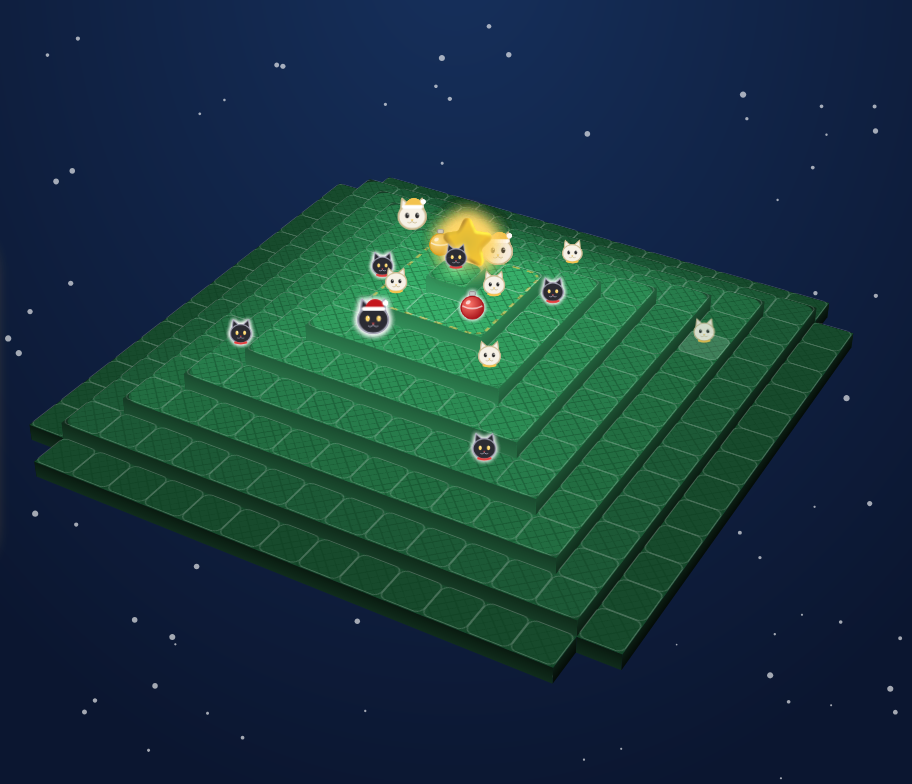
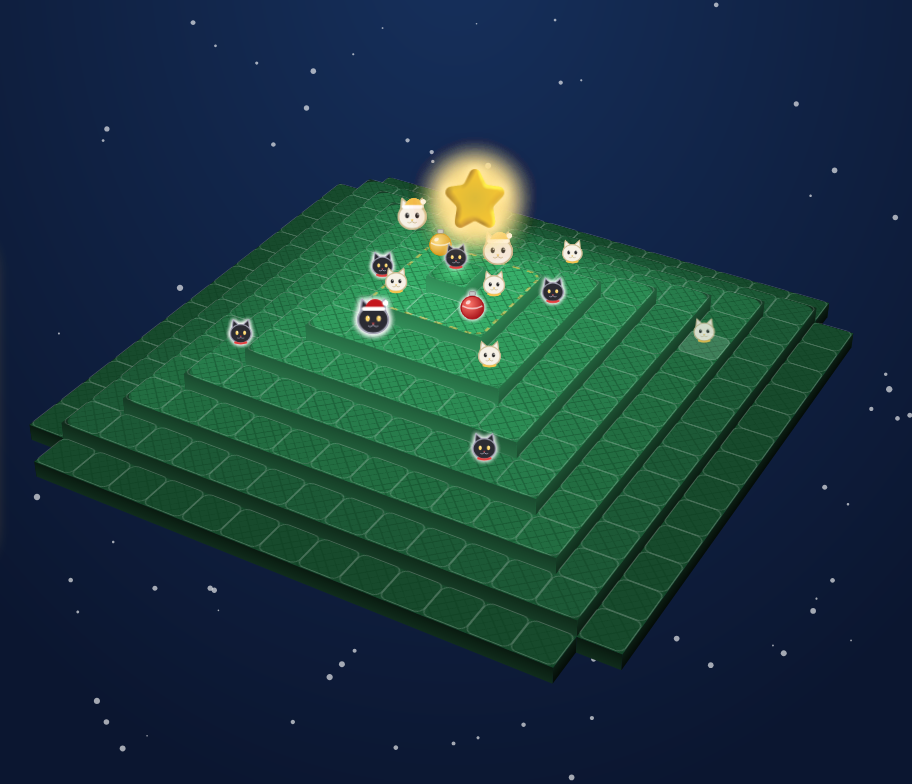
Star floats above the tree in 3D; Auto kittens scale with tree size; balance sim

Changed region(s): [[0.4605, 0.1837, 0.5833, 0.3673], [0.9825, 0.5204, 1.0, 0.551], [0.0, 0.4286, 0.0307, 0.4592]]

diff --git a/docs/ui.js b/docs/ui.js
@@ -13,7 +13,10 @@
   const TIER_H = 0.42;       // tier step height, in cells
   const reduced = matchMedia('(prefers-reduced-motion: reduce)').matches;
 
-  let settings = { mode: 'cpu', levels: 4, pieces: 8, view: '2d', spin: 30 };
+  let settings = { mode: 'cpu', levels: 4, pieces: 'auto', view: '2d', spin: 30 };
+  // Auto kittens: 8 on the classic tree, +2 per extra tier (balance_sim.js keeps games ~25 turns each).
+  const autoPieces = (levels) => 8 + 2 * (levels - 4);
+  const piecesFor = () => (settings.pieces === 'auto' ? autoPieces(settings.levels) : +settings.pieces);
   try { Object.assign(settings, JSON.parse(localStorage.getItem(SET_KEY) || '{}')); } catch (e) { /* ignore */ }
   let state = null, history = [], selCat = false, busy = false, S = 64, cpuTimer = null, optCur = 0, lastNote = '';
   let geo = null;
@@ -59,6 +62,8 @@
   const zRing = (k) => (is3d() ? (geo.L - k) * H() : 0);
   const zOf = (r, c) => (L.onBoard(geo, r, c) ? zRing(geo.ring[r * geo.N + c]) : 0);
   const billboard = () => `rotateZ(${-settings.spin}deg) rotateX(${-TILT}deg)`;
+  // Tree-topper: floats about 1.5 cells above the top tier in 3D.
+  const starTransform = () => `translateZ(${zRing(0) + S * 0.6}px) ${billboard()} translateY(-${Math.round(S * 1.5)}px)`;
 
   // ---------- layout ----------
   function measure() {
@@ -85,7 +90,7 @@
     buildWalls();
     const star = boardEl.querySelector('.topstar');
     Object.assign(star.style, { left: geo.m * S + 'px', top: geo.m * S + 'px', width: S + 'px', height: S + 'px' });
-    star.style.transform = is3d() ? `translateZ(${zRing(0) + 2}px) ${billboard()} translateY(-95%)` : '';
+    star.style.transform = is3d() ? starTransform() : '';
     for (const i of geo.cells) {
       const el = cellEls[i];
       el.style.left = (i % N) * S + 'px';
@@ -152,7 +157,7 @@
       boardEl.appendChild(t);
     }
     const star = document.createElement('div');
-    star.className = 'topstar'; star.textContent = '⭐';
+    star.className = 'topstar'; star.innerHTML = '<span>⭐</span>';
     star.title = 'Treetop: the single cell of tier 1';
     boardEl.appendChild(star);
     for (const i of geo.cells) {
@@ -408,6 +413,7 @@
     $('mode').value = settings.mode;
     $('levels').value = String(settings.levels);
     $('pieces').value = String(settings.pieces);
+    $('pieces').options[0].textContent = `Auto (${autoPieces(settings.levels)})`;
     $('view').value = settings.view;
   }
 
@@ -429,7 +435,7 @@
 
   function newGame() {
     clearTimeout(cpuTimer);
-    state = L.newGame({ levels: settings.levels, pieces: settings.pieces });
+    state = L.newGame({ levels: settings.levels, pieces: piecesFor() });
     history = []; selCat = false; busy = false; lastNote = ''; optCur = 0;
     buildBoard();
     save(); render(); scheduleCpu();
@@ -466,7 +472,7 @@
       for (const el of pieceEls.values()) el.style.transition = 'none';
       placeAll();
       const star = boardEl.querySelector('.topstar');
-      star.style.transform = `translateZ(${zRing(0) + 2}px) ${billboard()} translateY(-95%)`;
+      star.style.transform = starTransform();
     }
   });
   window.addEventListener('pointerup', () => {
@@ -490,7 +496,7 @@
   $('rotR').addEventListener('click', () => rotate(45));
   $('mode').addEventListener('change', (e) => { settings.mode = e.target.value; persistSettings(); render(); scheduleCpu(); });
   $('levels').addEventListener('change', (e) => { settings.levels = +e.target.value; persistSettings(); newGame(); });
-  $('pieces').addEventListener('change', (e) => { settings.pieces = +e.target.value; persistSettings(); newGame(); });
+  $('pieces').addEventListener('change', (e) => { settings.pieces = e.target.value === 'auto' ? 'auto' : +e.target.value; persistSettings(); newGame(); });
   $('view').addEventListener('change', (e) => { settings.view = e.target.value; persistSettings(); measure(); });
   document.addEventListener('keydown', (e) => {
     if (e.target.tagName === 'SELECT' || $('rules').open) return;
@@ -527,7 +533,7 @@
     tick();
   })();
 
-  if (!load()) state = L.newGame({ levels: settings.levels, pieces: settings.pieces });
+  if (!load()) state = L.newGame({ levels: settings.levels, pieces: piecesFor() });
   buildBoard();
   render();
   scheduleCpu();

diff --git a/test/balance_sim.js b/test/balance_sim.js
@@ -1,0 +1,35 @@
+// CPU-vs-CPU balance probe: node test/balance_sim.js
+// For each tree size and kitten count, plays games with a fast 1-ply CPU and reports
+// how often a game ends, how long it takes, and how it is won.
+const L = require('../docs/logic.js');
+const GAMES = +process.env.GAMES || 12, CAP = +process.env.CAP || 400;
+const sizes = (process.env.SIZES || '4,5,6,7,8').split(',').map(Number);
+const counts = (process.env.COUNTS || '8,10,12,16,20').split(',').map(Number);
+function playGame(levels, pieces) {
+  const decor = process.env.DECOR === 'edge' ? levels - 3 : 1;
+  let s = L.newGame({ levels, pieces, decor });
+  let plies = 0;
+  while (s.phase !== 'over' && plies < CAP) {
+    const m = L.bestMove(s, { depth: 1, rand: 25 });
+    if (!m) break;
+    if (m.line !== undefined) { s = L.chooseLine(s, m.line).state; continue; }
+    if (m.promote !== undefined) { s = L.promote(s, m.promote).state; continue; }
+    if (m.orn !== null && m.orn !== undefined) s = L.placeOrnament(s, m.orn).state;
+    if (s.phase === 'promote') { s = L.promote(s, L.bestMove(s).promote).state; }
+    s = L.play(s, m.idx, m.cat).state;
+    plies++;
+  }
+  return { plies, over: s.phase === 'over', reason: s.winReason };
+}
+console.log('tiers cells kittens  ended  avg_turns  nice  naughty');
+for (const lv of sizes) {
+  const cells = L.geometry(lv).cells.length;
+  for (const n of counts) {
+    let ended = 0, turns = 0, nice = 0, naughty = 0;
+    for (let g = 0; g < GAMES; g++) {
+      const r = playGame(lv, n);
+      if (r.over) { ended++; turns += r.plies; if (r.reason === 'naughty') naughty++; else nice++; }
+    }
+    console.log(`${lv}     ${String(cells).padEnd(5)} ${String(n).padEnd(8)} ${String(ended + '/' + GAMES).padEnd(6)} ${String(ended ? Math.round(turns / ended) : '-').padEnd(10)} ${String(nice).padEnd(5)} ${naughty}`);
+  }
+}

diff --git a/docs/logic.js b/docs/logic.js
@@ -26,10 +26,10 @@
   const onBoard = (g, r, c) => r >= 0 && r < g.N && c >= 0 && c < g.N && g.mask[r * g.N + c];
 
   function newGame(opts) {
-    const o = Object.assign({ levels: 4, pieces: 8 }, opts || {});
+    const o = Object.assign({ levels: 4, pieces: 8, decor: DECOR_RING }, opts || {});
     const g = geometry(o.levels);
     const s = {
-      L: g.L, N: g.N, n: o.pieces,
+      L: g.L, N: g.N, n: o.pieces, decor: Math.max(1, Math.min(g.L - 2, o.decor | 0)),
       b: new Array(g.N * g.N).fill(null),
       pool: [{ k: o.pieces, c: 0, o: ORNAMENTS }, { k: o.pieces, c: 0, o: ORNAMENTS }],
       captured: [0, 0],          // opponent ornaments captured by each player
@@ -42,7 +42,7 @@
 
   function clone(s) {
     return {
-      L: s.L, N: s.N, n: s.n, b: s.b.slice(),
+      L: s.L, N: s.N, n: s.n, decor: s.decor, b: s.b.slice(),
       pool: [{ ...s.pool[0] }, { ...s.pool[1] }], captured: s.captured.slice(),
       turn: s.turn, phase: s.phase, options: s.options ? s.options.map((x) => x.slice()) : null,
       promoteWhen: s.promoteWhen, winner: s.winner, winReason: s.winReason, winLine: s.winLine,
@@ -73,7 +73,7 @@
   // Cells where an ornament may be hung: free decorating-tier cells, else the next tier down.
   function ornamentCells(s) {
     const g = geometry(s.L);
-    for (let ring = DECOR_RING; ring < g.L; ring++) {
+    for (let ring = s.decor || DECOR_RING; ring < g.L; ring++) {
       const free = g.cells.filter((i) => g.ring[i] === ring && !s.b[i]);
       if (free.length) return free;
     }

diff --git a/docs/index.html b/docs/index.html
@@ -29,9 +29,12 @@
     </label>
     <label>Kittens
       <select id="pieces">
+        <option value="auto">Auto</option>
         <option value="8">8</option>
         <option value="10">10</option>
         <option value="12">12</option>
+        <option value="14">14</option>
+        <option value="16">16</option>
       </select>
     </label>
     <label>View
@@ -73,7 +76,7 @@
     <li>All your pieces on the tree? Take one back; it returns as a cat.</li>
   </ol>
   <p><b>Win nice:</b> three cats in a row, or all your pieces on the tree as cats. <b>Win naughty:</b> capture 3 of your opponent's ornaments.</p>
-  <p class="hint">Big tree: same rules, 5 to 8 tiers. 3D view: rotate with ⟲ ⟳, the Q/E keys or by dragging the board. Keys: <kbd>K</kbd> kitten, <kbd>C</kbd> cat, <kbd>U</kbd> undo.</p>
+  <p class="hint">Big tree: same rules, 5 to 8 tiers. Kittens on Auto: 8 on the classic tree, 2 more per extra tier (16 on 8 tiers). 3D view: rotate with ⟲ ⟳, the Q/E keys or by dragging the board. Keys: <kbd>K</kbd> kitten, <kbd>C</kbd> cat, <kbd>U</kbd> undo.</p>
   <form method="dialog"><button>Let's play!</button></form>
 </dialog>
 

diff --git a/docs/style.css b/docs/style.css
@@ -138,7 +138,10 @@ kbd { background: #ffffff22; border-radius: 4px; padding: 0 5px; }
 .board.v3d .tier.decor { outline-offset: -3px; }
 .board.v3d .cell { border-color: #ffffff38; }
 .board.v3d .piece { transform-style: preserve-3d; }
-.board.v3d .topstar { font-size: calc(var(--S) * 1.1); opacity: 1; }
+.board.v3d .topstar { font-size: calc(var(--S) * 1.35); opacity: 1; filter: drop-shadow(0 0 16px #ffd86b) drop-shadow(0 0 4px #fff3c4); }
+.board:not(.v3d) .topstar { font-size: calc(var(--S) * .42); opacity: .55; }
+.topstar span { display: block; animation: starBob 2.6s ease-in-out infinite; }
+@keyframes starBob { 50% { translate: 0 -10%; } }
 .wall { position: absolute; pointer-events: none; display: none; }
 .board.v3d .wall { display: block; }
 #rotBox { display: inline-flex; gap: 4px; }

diff --git a/test/browser_test.py b/test/browser_test.py
@@ -89,6 +89,8 @@ try:
             # Big tree vs CPU, in 3D
             pg.select_option("#mode", "cpu"); pg.select_option("#levels", "8"); idle(pg)
             ok(pg.locator(".cell").count() == 221, f"{name}: 8-tier tree has 221 cells")
+            ok(pg.evaluate("__boop.state.n") == 16, f"{name}: Auto gives 16 kittens on 8 tiers")
+            ok(pg.locator("#pieces option").first.inner_text() == "Auto (16)", f"{name}: Auto label shows the count")
             dec = pg.evaluate("BoopLogic.ornamentCells(__boop.state)")
             pg.click(f'.cell[data-idx="{dec[0]}"]', force=True); idle(pg)
             pg.click('.cell[data-idx="20"]', force=True)

diff --git a/DEVELOPMENT.md b/DEVELOPMENT.md
@@ -26,6 +26,10 @@ Simplifications: when a turn offers both a line and the all-on-the-tree graduati
 
 Pure CSS 3D, no WebGL. The board gets `rotateX(58deg) rotateZ(spin)` inside a `perspective` wrapper. Each tier's top face sits at `translateZ((L - ring) * 0.42 * cell)`, side walls are rotated divs, and pieces are billboards (`rotateZ(-spin) rotateX(-58deg)`) so they always face the camera. Cells stay real buttons, so clicks and keyboard focus work the same in 2D and 3D.
 
+## Kitten count on bigger trees
+
+`test/balance_sim.js` plays fast 1-ply CPU-vs-CPU games for every tree size and kitten count. With 8 kittens a game lasts about the same number of turns on every tree, but the pieces are spread thin on the big ones. Auto adds 2 kittens per extra tier, so a game on 8 tiers with 16 kittens lasts about 46 plies (23 turns each), close to the classic tree at its official 8. Above 16 games get long and the all-cats-on-the-tree win becomes unrealistic. Finding to revisit: on 5+ tiers the naughty (ornament) win almost disappears in CPU games, even when ornaments are hung 2 rings from the edge (`decor` option in `newGame`, not exposed in the UI).
+
 ## CPU
 
 Every full turn (ornament cell x placement, with line choice and promotion auto-resolved) is scored, then the top 10 are checked against the opponent's best reply (ornament cells sampled to 3). Eval: cats, captured ornaments, open pairs, ornaments exposed to a push off the tree. About 5 / 9 / 21 ms per move on 4 / 6 / 8 tiers.

diff --git a/README.md b/README.md
@@ -9,7 +9,7 @@
 ## ✨ What's inside
 
 - 🌲 **Classic tree**: 4 tiers on a 7×7 board (1, 8, 16 and 20 cells, base corners cut off), 8 kittens and 3 ornaments per player.
-- 🌲🌲 **Big tree**: the same rules on 5 to 8 tiers, up to 15×15 and 221 cells. Raise the kittens to 10 or 12 if you like.
+- 🌲🌲 **Big tree**: the same rules on 5 to 8 tiers, up to 15×15 and 221 cells. Kittens on **Auto** scale with the tree: 8 on the classic tree, +2 per extra tier (10, 12, 14, 16). You can also pick a fixed count from 8 to 16.
 - 🧊 **2D or 3D**: play from above, or switch to a 3D view of the stacked tree and rotate it (⟲ ⟳ buttons, Q/E keys, or drag).
 - 🤖 **Play the computer** (you are white-and-gold **Snowball**, the computer is black-and-red **Coal**) or two players on one device.
 - 💾 Saves in your browser, with undo. No account, no server, no tracking.
